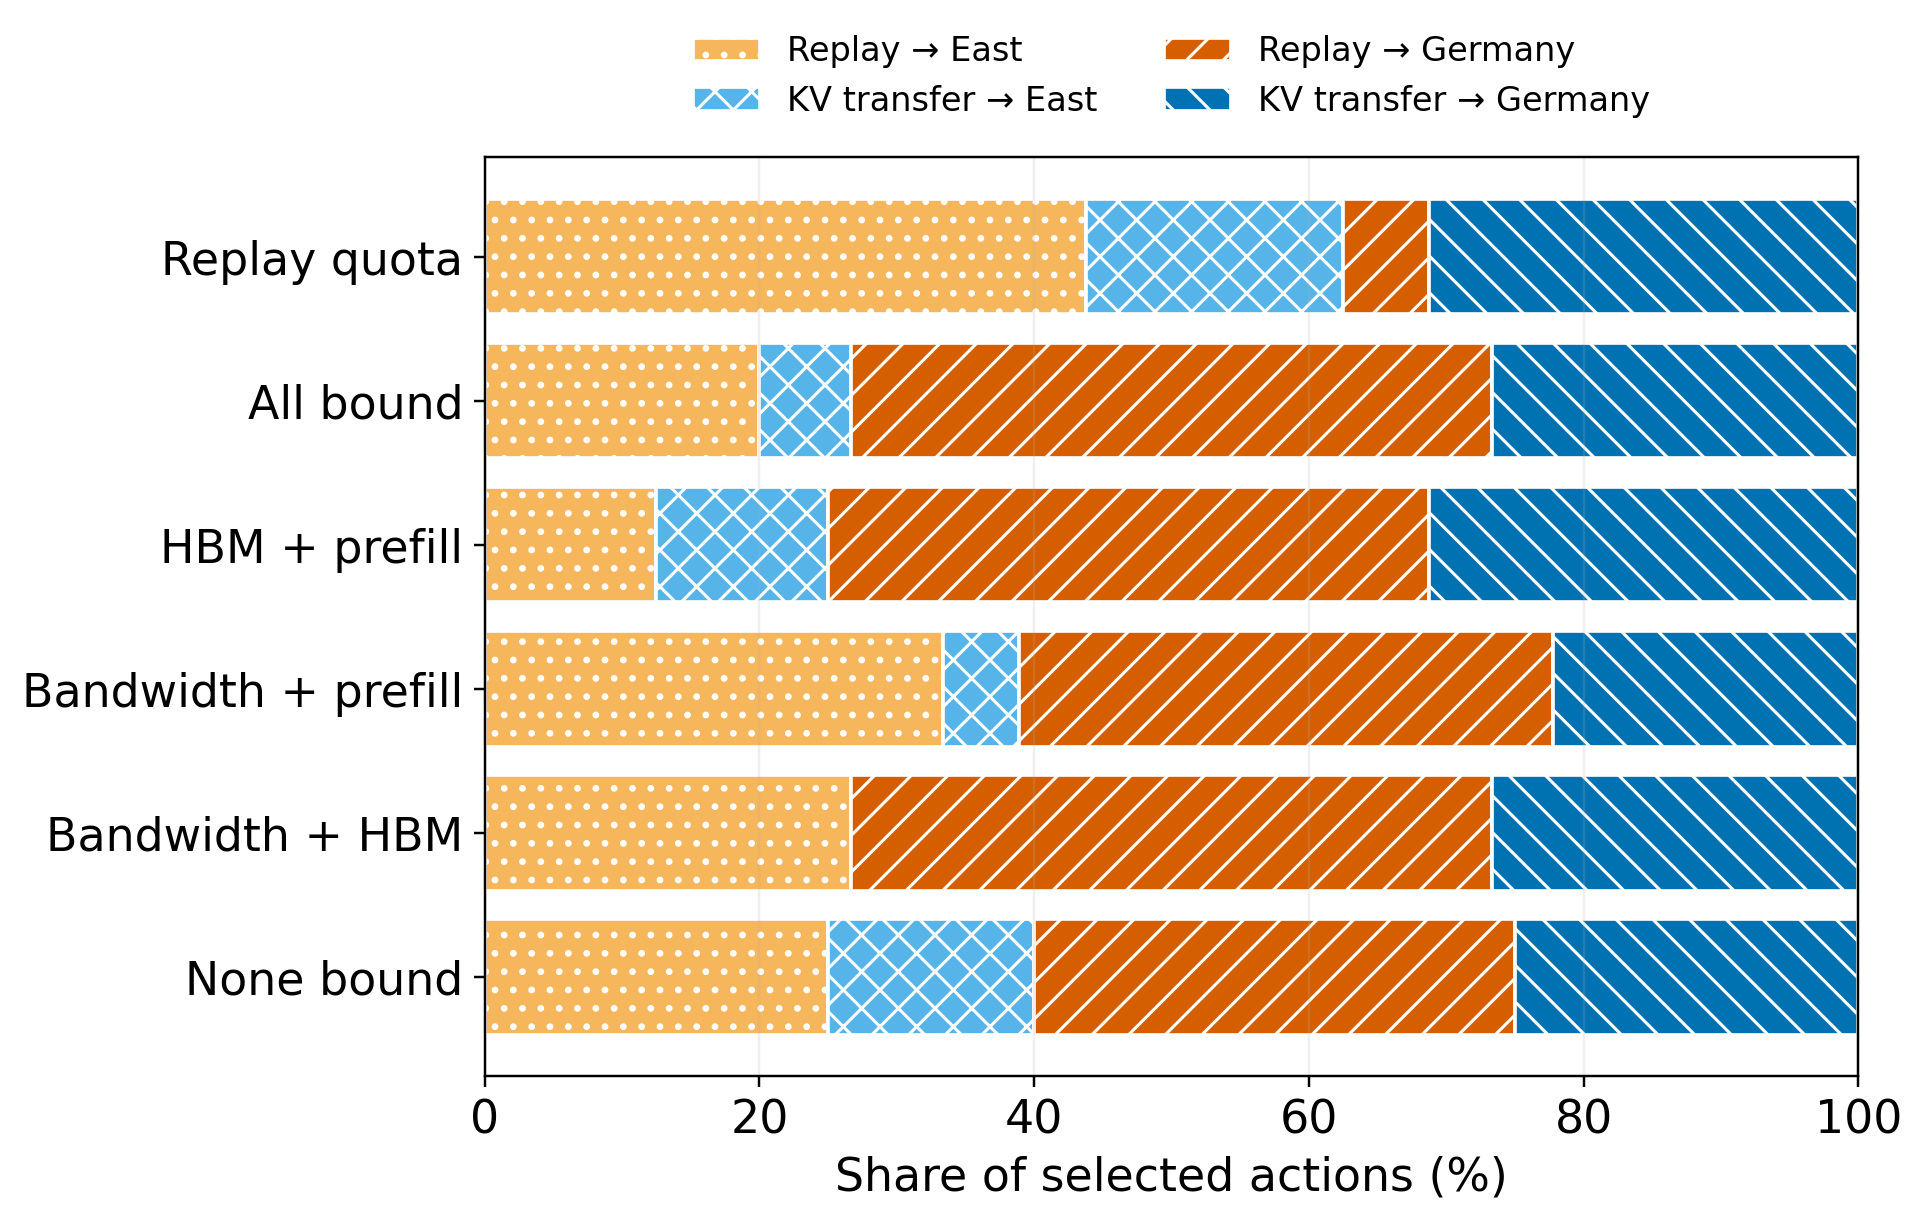
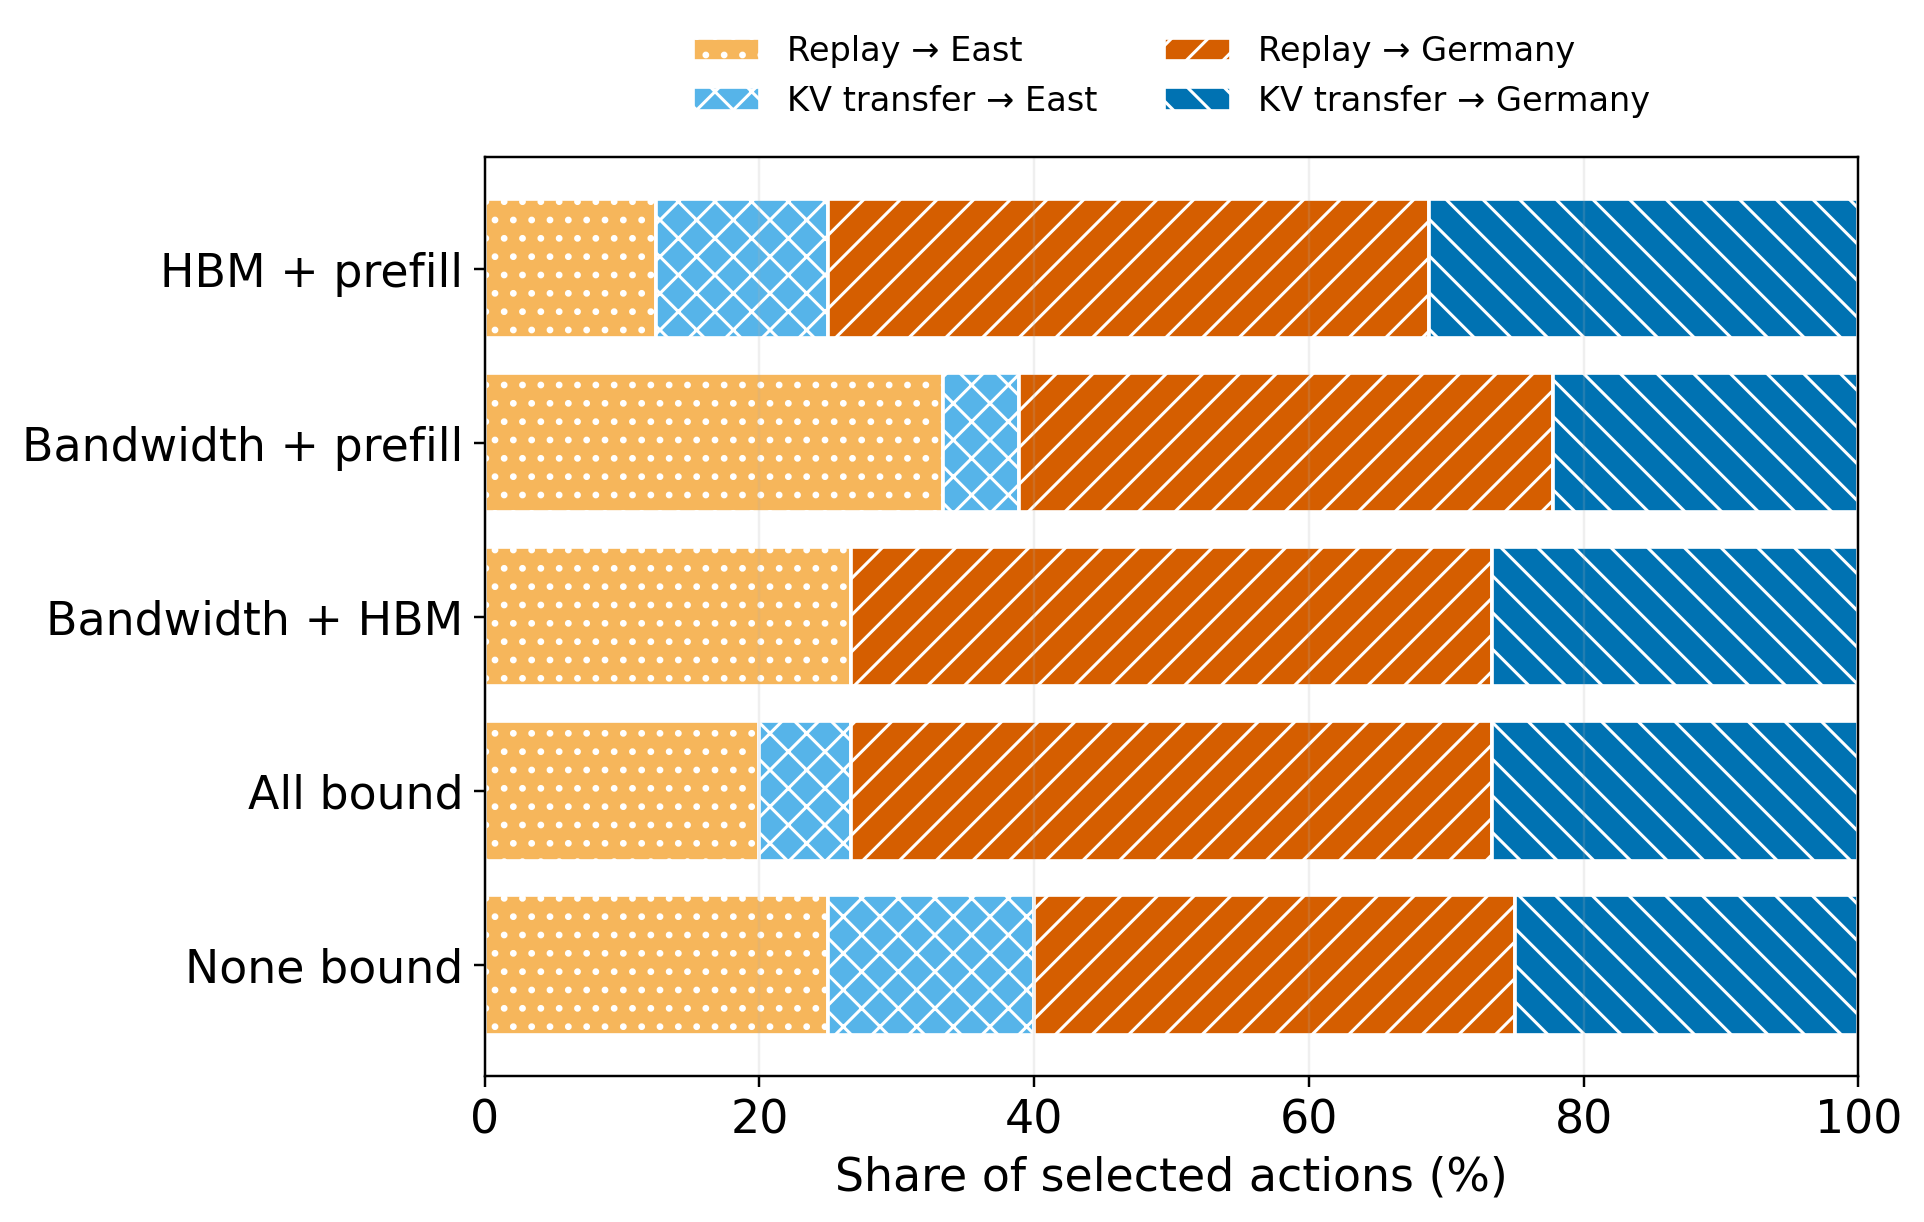
Focus action mix on resource constraint states

diff --git a/agent-migrate/queue-haul/tests/test_pooled_action_adaptation.py b/agent-migrate/queue-haul/tests/test_pooled_action_adaptation.py
@@ -71,3 +71,12 @@ def test_memory_constraint_is_labeled_hbm():
     labels = {case: label for case, label in ACTION_MIX_CASES}
     assert labels["hardware_gap/free-bandwidth"] == "HBM + prefill"
     assert labels["hardware_gap/free-service"] == "Bandwidth + HBM"
+
+
+def test_action_mix_uses_five_resource_states_with_bound_extremes_adjacent():
+    assert len(ACTION_MIX_CASES) == 5
+    assert ACTION_MIX_CASES[-2:] == (
+        ("hardware_gap/all-bind", "All bound"),
+        ("hardware_gap/all-release", "None bound"),
+    )
+    assert all(case != "constraint/quota-30" for case, _ in ACTION_MIX_CASES)

diff --git a/agent-migrate/queue-haul/plot_pooled_action_adaptation.py b/agent-migrate/queue-haul/plot_pooled_action_adaptation.py
@@ -32,11 +32,10 @@ CASE_NAMES = {
     "constraint/quota-30": "Germany replay quota",
 }
 ACTION_MIX_CASES = (
-    ("constraint/quota-30", "Replay quota"),
-    ("hardware_gap/all-bind", "All bound"),
     ("hardware_gap/free-bandwidth", "HBM + prefill"),
     ("hardware_gap/free-kv", "Bandwidth + prefill"),
     ("hardware_gap/free-service", "Bandwidth + HBM"),
+    ("hardware_gap/all-bind", "All bound"),
     ("hardware_gap/all-release", "None bound"),
 )
 plot_style.apply()
